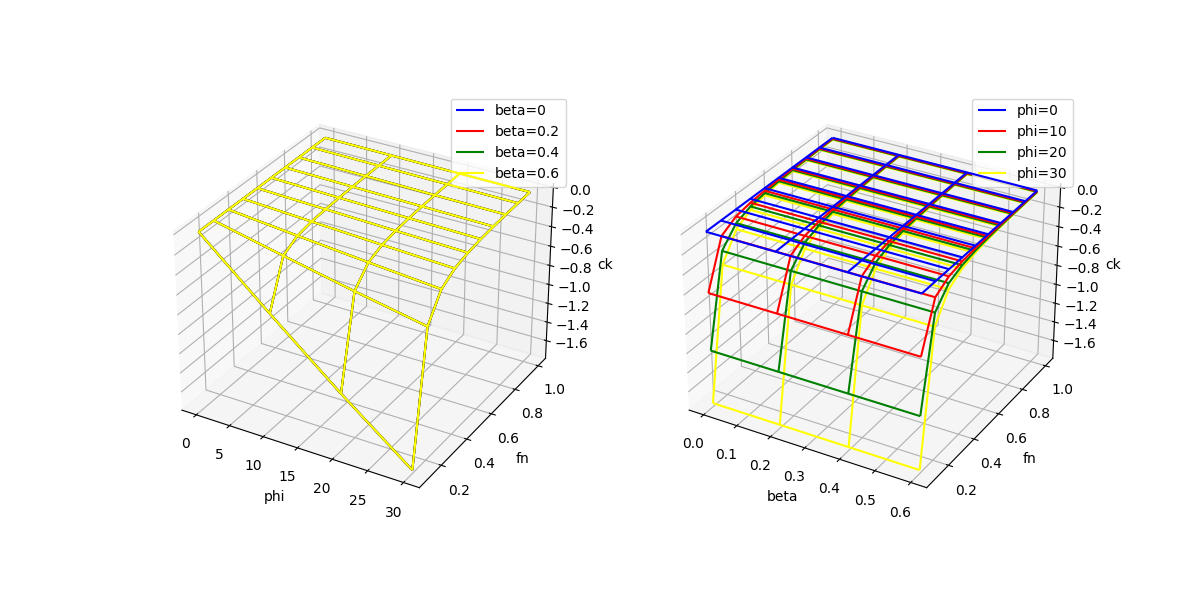
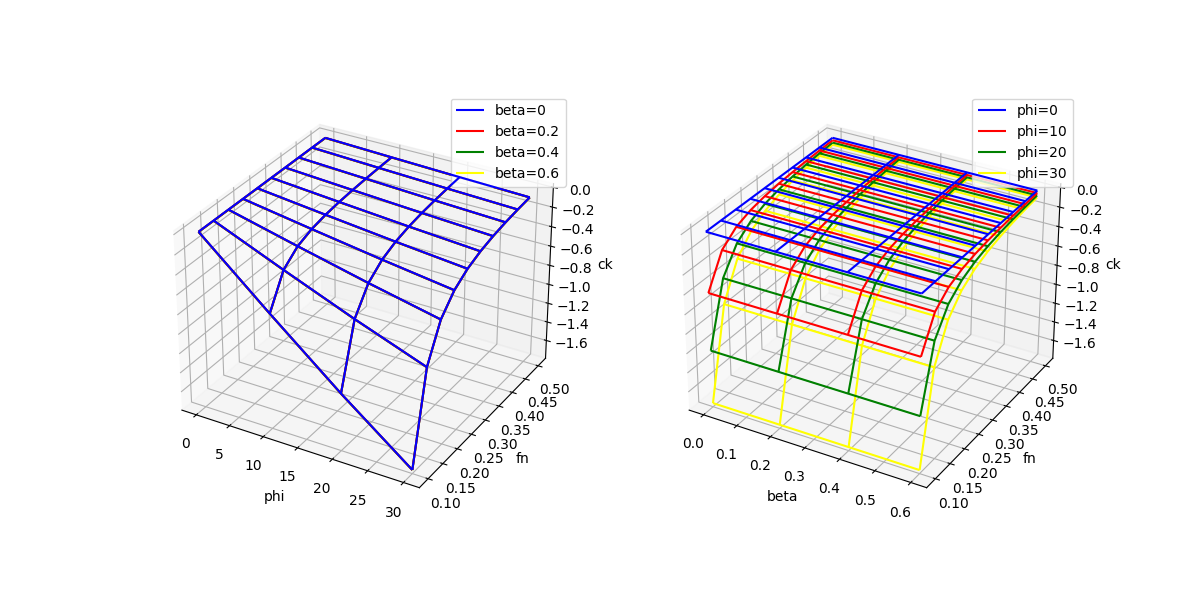
fixed 3d plot

Changed region(s): [[0.5858, 0.21, 0.8942, 0.84], [0.1542, 0.24, 0.4933, 0.84], [0.4625, 0.54, 0.4933, 0.57]]

diff --git a/test_data.py b/test_data.py
@@ -38,7 +38,7 @@ def plot_3d(n,zlabel):
 
     ax1 = fig.add_subplot(121, projection='3d')
     for i in range(len(beta_range)):
-        ax1.plot_wireframe( gphi[:,i,:], gfn[:,i,:], hull[:,0,:,n],color=col[i], label="beta={0:g}".format(beta_range[i]))
+        ax1.plot_wireframe( gphi[:,i,:], gfn[:,i,:], hull[:,i,:,n], color=col[i], label="beta={0:g}".format(beta_range[i]))
     ax1.legend()
     ax1.set_xlabel("phi")
     ax1.set_ylabel("fn")
@@ -46,7 +46,7 @@ def plot_3d(n,zlabel):
 
     ax2 = fig.add_subplot(122, projection='3d')
     for i in range(len(phi_range)):
-        ax2.plot_wireframe( gbeta[i,:,:], gfn[i,:,:], hull[i,:,:,n],color=col[i], label="phi={0:g}".format(phi_range[i]))
+        ax2.plot_wireframe( gbeta[i,:,:], gfn[i,:,:], hull[i,:,:,n], color=col[i], label="phi={0:g}".format(phi_range[i]))
     ax2.legend()
     ax2.set_xlabel("beta")
     ax2.set_ylabel("fn")
@@ -56,7 +56,7 @@ def plot_3d(n,zlabel):
     #plt.show()
     plt.clf()
     plt.close()        
-        
+
 if __name__ == "__main__":
     ut = 5                # true wind speed
     cfs = Coefficients()
@@ -68,7 +68,7 @@ if __name__ == "__main__":
 
     phi_range  = np.linspace(0,  30.0, 4)
     beta_range = np.linspace(0,   0.6, 4)
-    fn_range   = np.linspace(0.1, 1.0, 10)
+    fn_range   = np.linspace(0.1, 0.5, 10)
 
     hull = []
     for phi in phi_range:
@@ -87,9 +87,9 @@ if __name__ == "__main__":
                 
             
     hull = np.array(hull)
-    #print("phi, beta, fn, cfx, cfy, cmx, cmz")
-    #for h in hull:
-    #    print("{0:5.2f},{1:5.2f},{2:5.2f},{3:10.2e},{4:10.2e},{5:10.2e},{6:10.2e}".format(h[0],h[1],h[2],h[3],h[4],h[5],h[6]))
+    print("phi, beta, fn, cfx, cfy, cmx, cmz")
+    for h in hull:
+        print("{0:5.2f},{1:5.2f},{2:5.2f},{3:10.2e},{4:10.2e},{5:10.2e},{6:10.2e}".format(h[0],h[1],h[2],h[3],h[4],h[5],h[6]))
     np.save("hull",hull.reshape(len(phi_range),len(beta_range),len(fn_range),7))
 
     # --- convert ---

diff --git a/balance_mod.py b/balance_mod.py
@@ -14,7 +14,7 @@ class BalanceMod:
         self.hull_coeffs = np.load("hull.npy")
         rphi  = np.linspace(0,  30.0, 4)
         rbeta = np.linspace(0,   0.6, 4)
-        rfn   = np.linspace(0.1, 1.0, 10)
+        rfn   = np.linspace(0.1, 0.5, 10)
         self.param_range = (rphi, rbeta, rfn)
         
     def update_params(self,u,beta,delta,phi,gamma_t,ut):
